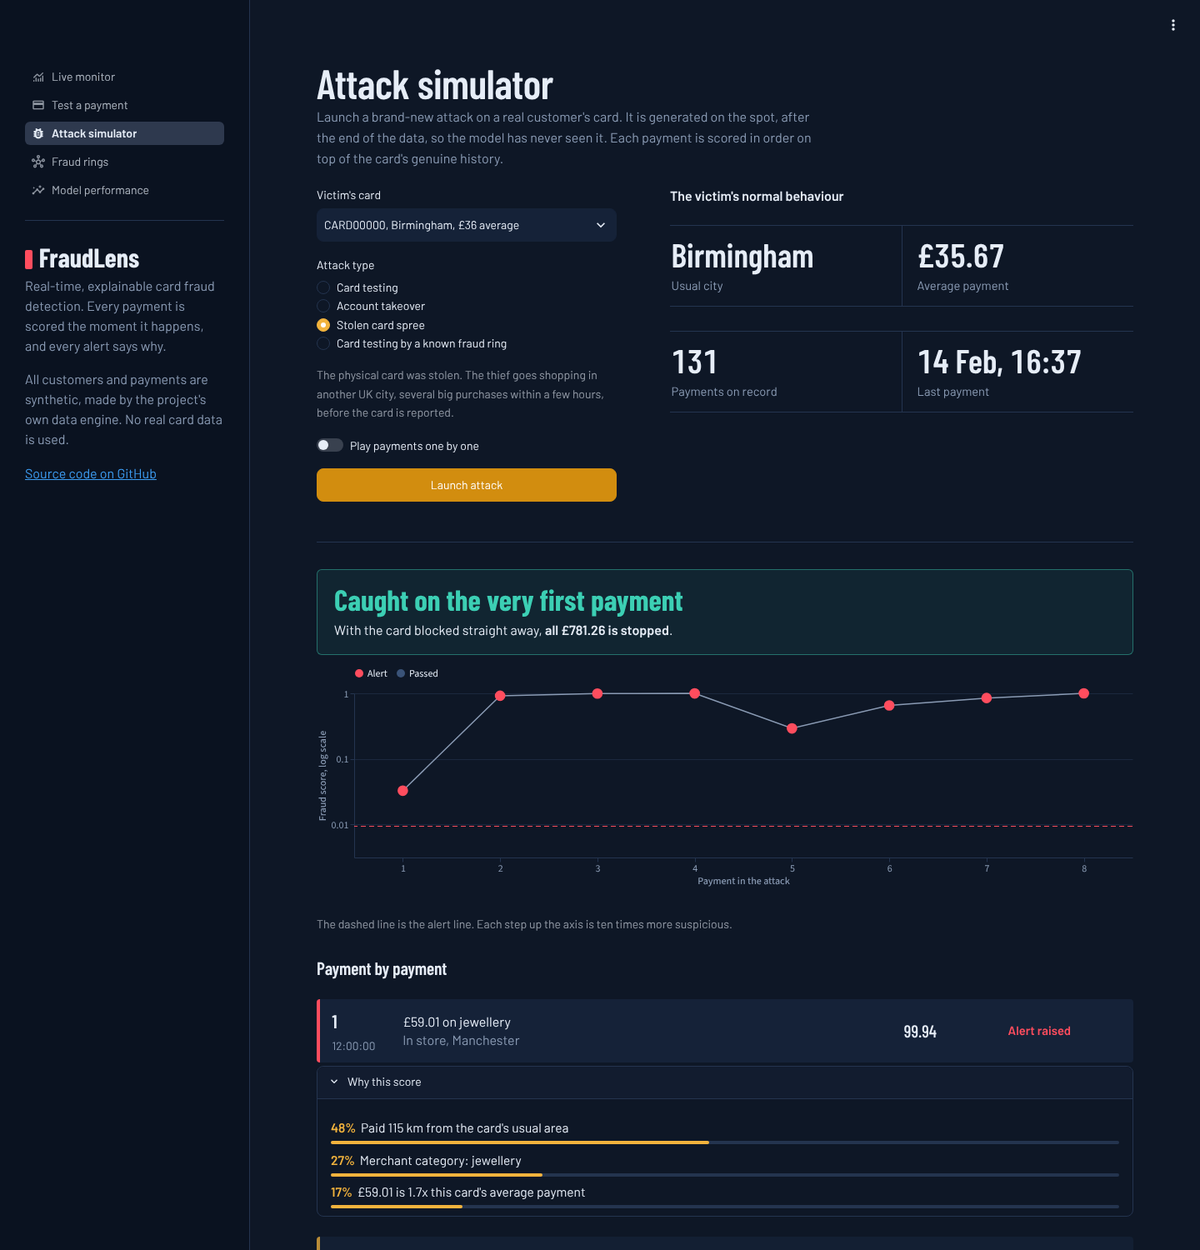
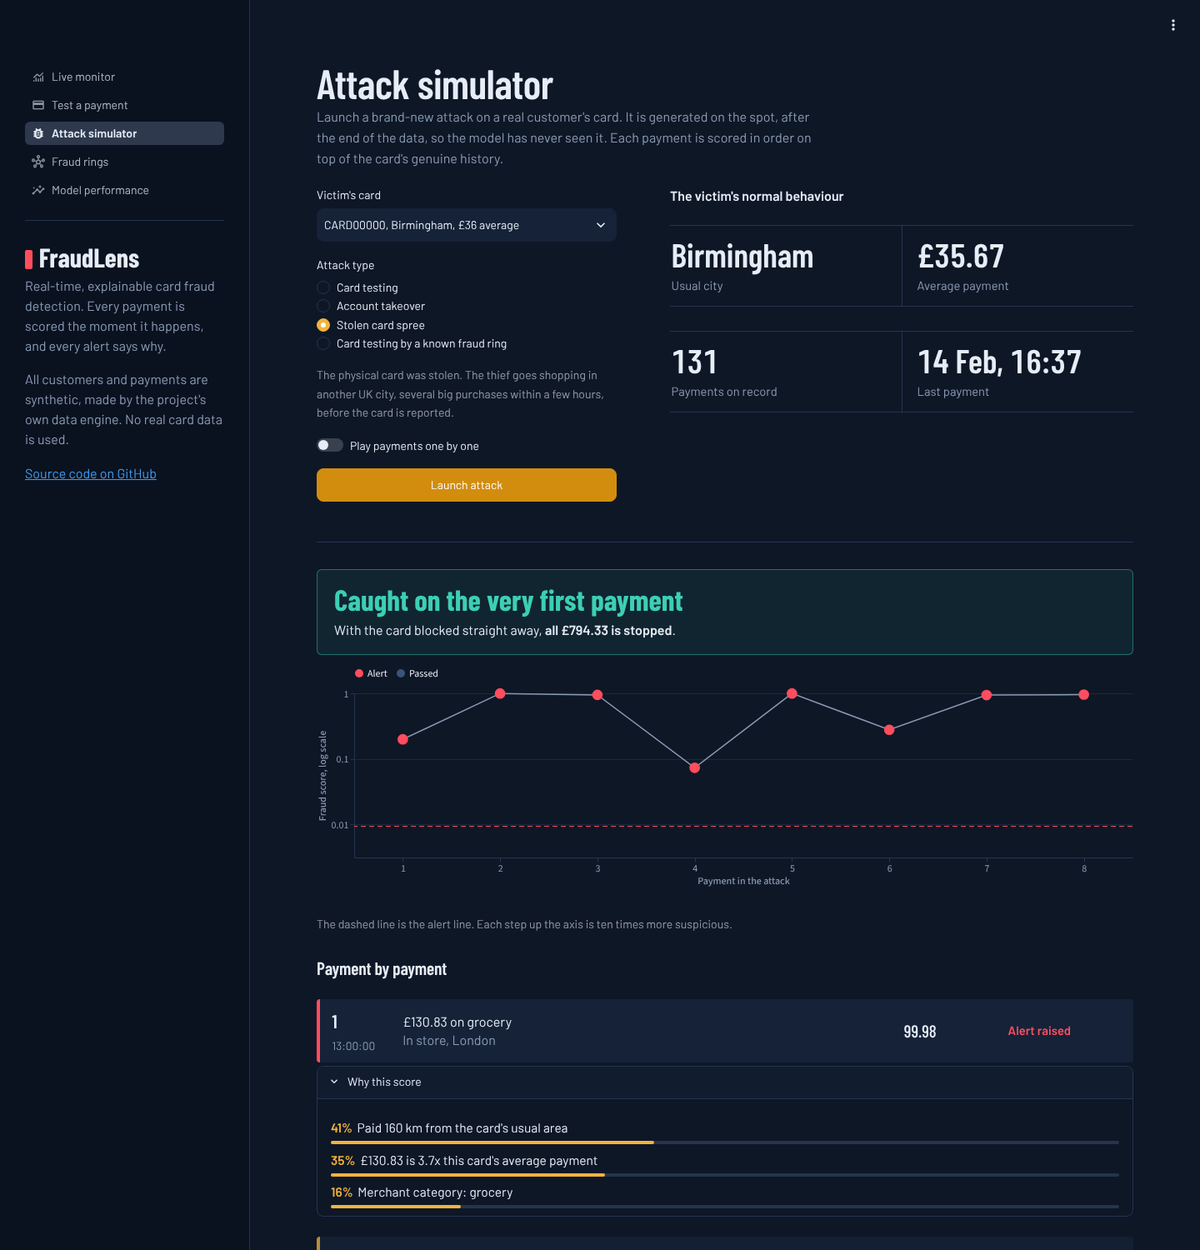
Fraud rings with union-find; fix unfair baseline (log-transform skewed features)

diff --git a/src/fraudlens/model/train.py b/src/fraudlens/model/train.py
@@ -29,7 +29,12 @@ from sklearn.ensemble import HistGradientBoostingClassifier
 from sklearn.inspection import permutation_importance
 from sklearn.linear_model import LogisticRegression
 from sklearn.pipeline import Pipeline
-from sklearn.preprocessing import OneHotEncoder, OrdinalEncoder, StandardScaler
+from sklearn.preprocessing import (
+    FunctionTransformer,
+    OneHotEncoder,
+    OrdinalEncoder,
+    StandardScaler,
+)
 
 from fraudlens import __version__
 from fraudlens.explain.reasons import reference_profile
@@ -45,10 +50,41 @@ from fraudlens.model.split import time_split
 DEFAULT_MAX_FPR = 0.001  # at most 1 false alarm per 1,000 genuine payments
 
 
+# Counts, amounts, distances and gaps are heavily skewed (a distance can be 2 km or
+# 5,000 km). A linear model gives each feature one weight, so a few extreme values
+# dominate it. log1p squeezes them onto a sensible scale. Without this the baseline
+# scored a PR-AUC of 0.29 instead of 0.85: an unfairly weak opponent.
+SKEWED_FEATURES = [
+    "amount",
+    "seconds_since_last",
+    "txn_count_10m",
+    "txn_count_1h",
+    "txn_count_24h",
+    "amount_sum_1h",
+    "amount_sum_24h",
+    "small_txn_count_10m",
+    "n_prev_txns",
+    "amount_to_avg_ratio",
+    "dist_from_usual_km",
+    "dist_from_last_km",
+    "speed_from_last_kmh",
+    "device_card_count",
+]
+
+
 def make_logistic_regression(seed: int) -> Pipeline:
+    skewed = [c for c in NUMERIC_FEATURES if c in SKEWED_FEATURES]
+    other = [c for c in NUMERIC_FEATURES if c not in SKEWED_FEATURES]
+    log_then_scale = Pipeline(
+        [
+            ("log", FunctionTransformer(np.log1p, feature_names_out="one-to-one")),
+            ("scale", StandardScaler()),
+        ]
+    )
     prep = ColumnTransformer(
         [
-            ("num", StandardScaler(), NUMERIC_FEATURES),
+            ("skewed", log_then_scale, skewed),
+            ("num", StandardScaler(), other),
             ("cat", OneHotEncoder(handle_unknown="ignore"), CATEGORICAL_FEATURES),
         ]
     )
@@ -114,6 +150,7 @@ def train(
     valid_frac: float = 0.15,
     test_frac: float = 0.2,
     importance_repeats: int = 5,
+    serve: str | None = None,
 ) -> dict:
     """Train every candidate, pick the best on validation, return a saveable bundle."""
     split = time_split(features, valid_frac=valid_frac, test_frac=test_frac)
@@ -137,7 +174,15 @@ def train(
             "test": evaluate(_scored(split.test, predict_scores(model, split.test)), threshold),
         }
 
+    # Normally the model with the best validation PR-AUC is served. ``serve`` overrides
+    # that when the choice was already made on a larger, more reliable evaluation
+    # (the app's small demo world uses it; see the README).
     best_name = max(candidates, key=lambda n: candidates[n]["valid"]["average_precision"])
+    selected_by = "validation"
+    if serve is not None:
+        if serve not in candidates:
+            raise ValueError(f"Unknown model {serve!r}; choose from {list(candidates)}")
+        best_name, selected_by = serve, "fixed"
     best = candidates[best_name]
 
     importance = permutation_importance(
@@ -159,6 +204,7 @@ def train(
     return {
         "model": best["model"],
         "model_name": best_name,
+        "selected_by": selected_by,
         "threshold": best["threshold"],
         "max_fpr": max_fpr,
         "feature_columns": FEATURE_COLUMNS,

diff --git a/tests/test_model.py b/tests/test_model.py
@@ -98,3 +98,32 @@ def test_saved_model_gives_identical_scores(bundle, features, tmp_path):
     )
     assert loaded["threshold"] == bundle["threshold"]
     assert (tmp_path / "metrics.json").exists()
+
+
+def test_baseline_log_transforms_only_non_negative_skewed_features(features):
+    """log1p is only safe on values >= 0: every skewed feature must stay non-negative."""
+    from fraudlens.model.train import SKEWED_FEATURES
+
+    assert (features[SKEWED_FEATURES] >= 0).all().all()
+
+
+def test_baseline_can_be_saved_and_reloaded(features, tmp_path):
+    import joblib
+
+    from fraudlens.model.train import make_logistic_regression
+
+    model = make_logistic_regression(seed=0).fit(features, features["is_fraud"])
+    joblib.dump(model, tmp_path / "baseline.joblib")
+    reloaded = joblib.load(tmp_path / "baseline.joblib")
+    sample = features.head(50)
+    np.testing.assert_allclose(predict_scores(model, sample), predict_scores(reloaded, sample))
+
+
+def test_a_model_can_be_served_by_an_earlier_decision(features):
+    from fraudlens.model import train
+
+    bundle = train(features, max_fpr=0.01, importance_repeats=1, serve="logistic_regression")
+    assert bundle["model_name"] == "logistic_regression"
+    assert bundle["selected_by"] == "fixed"
+    with pytest.raises(ValueError):
+        train(features, importance_repeats=1, serve="random_forest")

diff --git a/src/fraudlens/app/views/performance.py b/src/fraudlens/app/views/performance.py
@@ -82,10 +82,21 @@ def render() -> None:
         ),
         width="stretch",
     )
+    served = MODEL_NAMES[bundle["model_name"]]
+    if bundle.get("selected_by") == "fixed":
+        choice = (
+            f"The app serves **{served}**, the clear winner of the full 60-day evaluation "
+            "(651,379 payments, 29 attacks; see the README). This demo world is much smaller, "
+            "with only a handful of attacks to test on, so the two models can swap places "
+            "here: that is noise, and exactly why the choice is made on the larger evaluation."
+        )
+    else:
+        choice = (
+            f"The saved model is **{served}**, picked on validation data, never on the test set."
+        )
     st.caption(
         "Both models use the same alert budget: at most 1 false alarm per 1,000 genuine "
-        f"payments. The saved model is **{MODEL_NAMES[bundle['model_name']]}**, picked on "
-        "validation data, never on the test set."
+        f"payments. {choice}"
     )
 
     st.subheader("The false-alarm trade-off")

diff --git a/src/fraudlens/app/world.py b/src/fraudlens/app/world.py
@@ -41,6 +41,7 @@ from fraudlens.model.split import TimeSplit, time_split
 from fraudlens.model.train import predict_scores, train
 
 APP_CONFIG = GeneratorConfig(n_customers=2_000, n_days=45, seed=7)
+SERVED_MODEL = "gradient_boosting"  # winner of the full evaluation in the README
 
 
 @dataclass
@@ -166,7 +167,10 @@ def build_demo_world(config: GeneratorConfig = APP_CONFIG) -> DemoWorld:
     customers, directory, _ = build_world(config)
     transactions = generate_transactions(config)
     features = build_features(transactions)
-    bundle = train(features, importance_repeats=3, seed=config.seed)
+    # The demo world is small (about 13 attacks in its test period), so a validation-based
+    # choice between the two models is close to a coin toss here. Serve the winner of the
+    # full 60-day evaluation instead; the performance page says so openly.
+    bundle = train(features, importance_repeats=3, seed=config.seed, serve=SERVED_MODEL)
     split = time_split(features)
     explainer = ReasonExplainer.from_bundle(bundle)
 

diff --git a/README.md b/README.md
@@ -192,20 +192,40 @@ Test set (130,510 payments, 173 fraudulent, 29 separate attacks):
 
 | Model | PR-AUC | Fraud payments caught | £ fraud caught | Attacks caught | Alert precision |
 |---|---:|---:|---:|---:|---:|
-| Logistic regression (baseline) | 0.287 | 63.0% | 66.2% | 22 / 29 | 32% |
+| Logistic regression (baseline) | 0.850 | 91.9% | 90.4% | 29 / 29 | 49% |
 | **Gradient boosting** | **0.970** | **98.3%** | **98.7%** | **29 / 29** | **55%** |
 
 - Gradient boosting wins because fraud lives in *combinations* ("far from home **and** a new
   device **and** at night") that a linear model cannot express. The gap is largest on
-  stolen-card sprees: 96% caught vs 29% for the baseline.
+  stolen-card sprees (96% caught vs 84%) and in how clean the alerts are (PR-AUC 0.97 vs 0.85).
 - Recall by attack type: account takeover 100%, card testing 100%, stolen card spree 95.7%.
 - Most useful features (permutation importance): distance from usual location, device first
   seen in the last 24 h, merchant category, amount vs habit, money spent in the last hour.
 - Scoring one payment takes about **7 ms** (p50) on a laptop CPU.
-- The baseline fell from 0.67 to 0.29 PR-AUC when rings and shared family devices were
-  added to the data, while gradient boosting held steady. A likely reason, not yet tested:
-  "several cards on one device" is suspicious for a ring but normal for a family, and
-  telling them apart needs exactly the kind of combination a linear model cannot learn.
+
+**A hypothesis I got wrong.** After fraud rings and shared family devices were added to
+the data, the baseline collapsed from 0.67 to 0.29 PR-AUC while gradient boosting held
+steady. My first guess was that "several cards on one device" confused it, being
+suspicious for a ring but normal for a family. An ablation disproved that:
+
+| Baseline variant | PR-AUC |
+|---|---:|
+| As it was | 0.29 |
+| Without the shared-device feature | 0.26 |
+| **With log-transformed skewed features** | **0.85** |
+
+The real cause was preprocessing. Counts, amounts and distances are heavily skewed (2 km
+or 5,000 km), and a linear model, with one weight per feature, gets dominated by the
+extremes. Applying `log1p` before scaling is standard practice for linear models, so
+the baseline now does it. Gradient boosting is unaffected (trees only care about the
+order of values) and still wins, but now against a fair opponent.
+
+**Which model the app serves.** On the app's much smaller demo world (2,000 customers,
+45 days, about 13 attacks to test on), the fixed baseline and gradient boosting finish
+within noise of each other on validation (0.935 vs 0.932), and the baseline then misses
+attacks the larger evaluation shows gradient boosting catches. Choosing between models
+on a coin toss would be a mistake, so the app serves the winner of the evaluation above
+and its performance screen says so openly.
 
 Full numbers are in [`reports/metrics.json`](reports/metrics.json).
 
